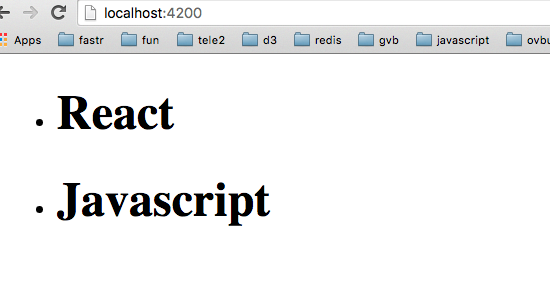
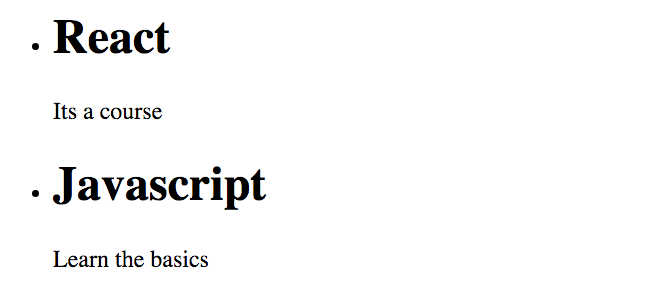
updated readme

diff --git a/src/Courses.js b/src/Courses.js
@@ -1,32 +1,69 @@
 import React from 'react';
 import jQuery from 'jquery';
+import Students from './Students';
 
 class Courses extends React.Component {
 
   constructor(props) {
     super(props);
     this.state = {
-      courses: []
+      courses: [],
     };
   }
 
   componentDidMount() {
-    jQuery.get("http://localhost:3000/courses.json", (function(data){
+    this.loadCourses()
+  }
+
+  loadCourses(event){
+    jQuery.get("http://localhost:3000/courses.json", function(data){
       this.setState({
         courses: data.courses,
       });
-    }).bind(this));
+    }.bind(this));
+  }
+
+  createCourse(event){
+    event.preventDefault();
+
+    let newCourse = {
+      name: this.refs.name.value,
+      description: this.refs.description.value
+    };
+    var component = this;
+    jQuery.ajax({
+      type: "POST",
+      url: "http://localhost:3000/courses.json",
+      data: JSON.stringify({
+        course: newCourse
+      }),
+      contentType: "application/json",
+      dataType: "json"
+
+    }).done(function( data ) {
+      component.loadCourses()
+    })
+    .fail(function(error) {
+      console.log(error);
+    });
   }
 
   render() {
     let courses = this.state.courses.map(function(course) {
-      return <li key={course.id}><h1>{course.name}</h1><p>{course.description}</p></li>;
+      return <li key={course.id}><h1>{course.name}</h1><p>{course.description}</p><Students/></li>;
     });
 
     return (
-        <ul>
-          {courses}
-        </ul>
+        <div>
+          <ul>
+            {courses}
+          </ul>
+          <form onSubmit={this.createCourse.bind(this)}>
+            <input type="text" className="form-control" ref="name" placeholder="What will the project be named?" />
+            <textarea className="form-control" ref="description" placeholder="Describe the project.."></textarea>
+            <button type="submit" className="btn btn-primary">Create Project</button>
+          </form>
+        </div>
     )
   }
 

diff --git a/src/Students.js b/src/Students.js
@@ -1,0 +1,39 @@
+import React from 'react';
+import jQuery from 'jquery';
+
+class Students extends React.Component {
+
+  constructor(props) {
+    super(props);
+    this.state = {
+      students: []
+    };
+  }
+
+  componentDidMount() {
+    this.loadStudents()
+  }
+
+  loadStudents(event){
+    jQuery.get("http://localhost:3000/students.json", function(data){
+      this.setState({
+        students: data.students
+      });
+    }.bind(this));
+  }
+
+  render() {
+    let students = this.state.students.map(function(student) {
+      return <option key={student.id} value={student.id}>{student.name}</option>;
+    });
+
+    return (
+        <select>
+          {students}
+        </select>
+    )
+  }
+
+}
+
+export default Students;

diff --git a/README.md b/README.md
@@ -21,10 +21,12 @@ We will be using the [react-starter provided by Rory](https://github.com/Codaiss
 I have already created a simple rails backend for you to be downloaded at: [todo](todo)
 
 At the end of this exercise you should:
-> Learn about the react router
+
+> Know what a callback function is
+> Understand .bind(this)
 > Create forms for various resources
 > Create a structure in your application
-
+> Learn about the react router
 
 # All courses
 Lets start by making a overview page for all the courses. We will need to create React components for all Courses and for a single Course.
@@ -146,13 +148,69 @@ We do this by adding a jQuery ajax request and then changing the state. When we 
 
 Do you know what bind(this) does?
 
-###7 Test
+###4 Test
 Go to `http://localhost:4200` and check if stuff works. It should look like this
 
 ![Data](/docs/data.png?raw=true)
 
-###8 Git
+###5 Git
 Add your progress to Git
 
+## II Add a create resource
 
+###1 Add a form
+
+Add a form to the render method. The form will call another method on submit.
+
+```
+<form onSubmit={this.createCourse.bind(this)}>
+  <input type="text" className="form-control" ref="name" placeholder="What will the project be named?" />
+  <textarea className="form-control" ref="description" placeholder="Describe the project.."></textarea>
+  <button type="submit" className="btn btn-primary">Create Project</button>
+</form>
+```
+
+###2 Handle the form
+We need a function to get the information from the form and submit it with a AJAX request.
+
+```
+createCourse(event){
+    event.preventDefault();
+
+    let newCourse = {
+      name: this.refs.name.value,
+      description: this.refs.description.value
+    };
+
+    jQuery.ajax({
+      type: "POST",
+      url: "http://localhost:3000/courses.json",
+      data: JSON.stringify({
+        course: newCourse
+      }),
+      contentType: "application/json",
+      dataType: "json"
+
+    }).done(function( data ) {
+      alert( "Data saved: " + data );
+    })
+    .fail(function(error) {
+      console.log(error);
+    });
+  }
+```
+
+###3 Reload the data
+Offcourse showing a alert is really fancy already. Lets make a function  to reload the data
+
+1. Move the AJAX GET function out of the componentDidMount function and make a own function for it.
+2. Call this function inside the done() block of the ajax post function. You cannot use this.function() because it is out of scope, you need to reassign this.
+
+###4 Test
+Go to `http://localhost:4200` and check if stuff works. You should now have a working form
+
+###5 Git
+Add your progress to Git
+
+## III Add students to courses 
 
